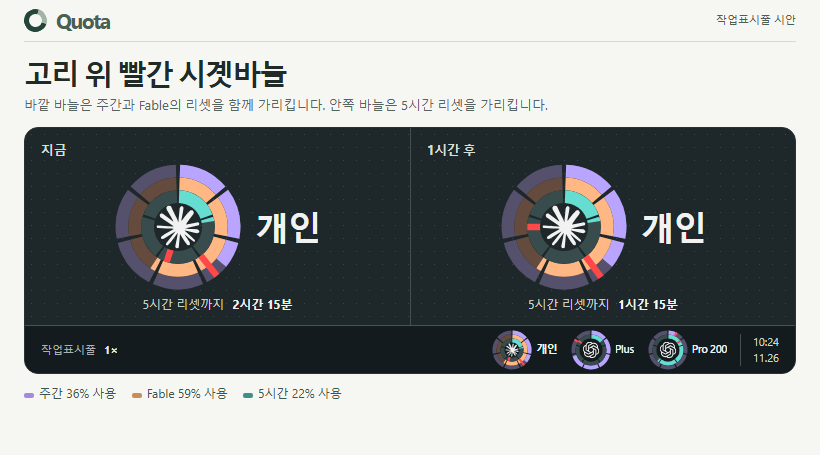
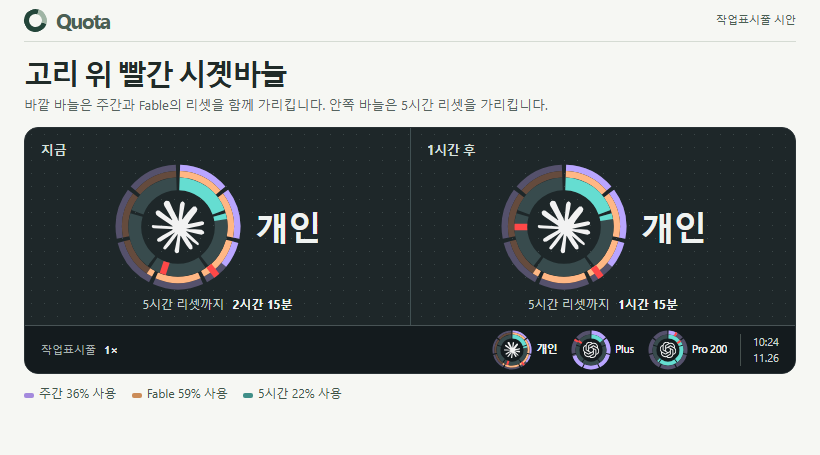
Fit Claude weekly and Fable usage into one Codex-width band

Changed region(s): [[0.122, 0.3692, 0.3049, 0.6462], [0.6098, 0.3692, 0.7622, 0.6462], [0.5793, 0.7077, 0.6707, 0.8308]]

diff --git a/dial-preview.js b/dial-preview.js
@@ -3,9 +3,9 @@
 const dialBands = { week: 7, fable: 7, short: 5 };
 const dialOuterRadius = 39, dialStroke = 8, handWidth = 4;
 
-function dialBand(key, value, index) {
+function dialBand(key, value, outer, stroke) {
   const cells = dialBands[key];
-  const radius = dialOuterRadius - (index + .5) * dialStroke;
+  const radius = outer - stroke / 2;
   const point = fraction => {
     const angle = 2 * Math.PI * fraction;
     return [40 + radius * Math.sin(angle), 40 - radius * Math.cos(angle)];
@@ -13,7 +13,7 @@ function dialBand(key, value, index) {
   const gap = 0.011;
   const paths = Array.from({ length: cells }, (_, i) => {
     const start = point(i / cells + gap / 2), end = point((i + 1) / cells - gap / 2);
-    const attrs = `d="M${start.join(" ")} A${radius} ${radius} 0 0 1 ${end.join(" ")}" pathLength="100" stroke-width="${dialStroke}"`;
+    const attrs = `d="M${start.join(" ")} A${radius} ${radius} 0 0 1 ${end.join(" ")}" pathLength="100" stroke-width="${stroke}"`;
     const fill = Math.max(0, Math.min(100, value * cells - i * 100));
     return `<path ${attrs} class="track"/>` +
       (fill > 0 ? `<path ${attrs} class="used" stroke-dasharray="${fill} 100"/>` : "");
@@ -40,14 +40,14 @@ function dialHand(key, left, outer, inner) {
 }
 
 function dialPreview(usage, logo, resets) {
-  const keys = Object.keys(dialBands).filter(key => Number.isFinite(usage[key]));
-  const size = keys.length === 3 ? 27 : 33;
-  const bands = keys.map((key, index) => dialBand(key, usage[key], index)).join("");
-  const shortIndex = keys.indexOf("short");
-  const weeklyDepth = (keys.length - Number(shortIndex >= 0)) * dialStroke;
-  const shortEdge = dialOuterRadius - shortIndex * dialStroke;
-  const hands = (weeklyDepth ? dialHand("week", resets?.week, dialOuterRadius, dialOuterRadius - weeklyDepth) : "") +
-    (shortIndex >= 0 ? dialHand("short", resets?.short, shortEdge, shortEdge - dialStroke) : "");
+  const weeklyKeys = ["week", "fable"].filter(key => Number.isFinite(usage[key]));
+  const weeklyWidth = weeklyKeys.length === 2 ? dialStroke / 2 : dialStroke;
+  const shortEdge = dialOuterRadius - weeklyKeys.length * weeklyWidth;
+  const hasShort = Number.isFinite(usage.short);
+  const bands = weeklyKeys.map((key, i) => dialBand(key, usage[key], dialOuterRadius - i * weeklyWidth, weeklyWidth)).join("") +
+    (hasShort ? dialBand("short", usage.short, shortEdge, dialStroke) : "");
+  const hands = (weeklyKeys.length ? dialHand("week", resets?.week, dialOuterRadius, shortEdge) : "") +
+    (hasShort ? dialHand("short", resets?.short, shortEdge, shortEdge - dialStroke) : "");
   return `<svg class="dial" viewBox="0 0 80 80" aria-hidden="true">${bands}` +
-    `<image class="dial-logo" href="${logo}.svg" x="${(80 - size) / 2}" y="${(80 - size) / 2}" width="${size}" height="${size}"/>${hands}</svg>`;
+    `<image class="dial-logo" href="${logo}.svg" x="23.5" y="23.5" width="33" height="33"/>${hands}</svg>`;
 }

diff --git a/src/taskbar.rs b/src/taskbar.rs
@@ -1219,26 +1219,39 @@ impl<'a> Gauge<'a> {
     }
 
     fn weekly_inner_edge(&self) -> f32 {
-        let bands = u8::from(self.week.is_some()) + u8::from(self.fable.is_some());
-        OUTER_RADIUS - f32::from(bands) * RING_WIDTH
+        if self.week.is_some() || self.fable.is_some() {
+            OUTER_RADIUS - RING_WIDTH
+        } else {
+            OUTER_RADIUS
+        }
     }
 
-    fn rings(&self) -> impl Iterator<Item = (Ring, &Limit, f32)> {
+    fn rings(&self) -> impl Iterator<Item = (Ring, &Limit, (f32, f32))> {
+        let weekly_width = if self.week.is_some() && self.fable.is_some() {
+            RING_WIDTH / 2.
+        } else {
+            RING_WIDTH
+        };
+        let inner = self.weekly_inner_edge();
         [
-            (Ring::Week, self.week),
-            (Ring::Fable, self.fable),
-            (Ring::Short, self.short),
+            (
+                Ring::Week,
+                self.week,
+                (OUTER_RADIUS - weekly_width / 2., weekly_width),
+            ),
+            (
+                Ring::Fable,
+                self.fable,
+                (inner + weekly_width / 2., weekly_width),
+            ),
+            (
+                Ring::Short,
+                self.short,
+                (inner - RING_WIDTH / 2., RING_WIDTH),
+            ),
         ]
         .into_iter()
-        .filter_map(|(ring, limit)| limit.map(|limit| (ring, limit)))
-        .enumerate()
-        .map(|(index, (ring, limit))| {
-            (
-                ring,
-                limit,
-                OUTER_RADIUS - (index as f32 + 0.5) * RING_WIDTH,
-            )
-        })
+        .filter_map(|(ring, limit, band)| limit.map(|limit| (ring, limit, band)))
     }
 }
 
@@ -1439,7 +1452,7 @@ impl Renderer {
                     );
                     let gauge = Gauge::new(tile);
                     let known = gauge.has_quota();
-                    for (ring, limit, radius) in gauge.rings() {
+                    for (ring, limit, band) in gauge.rings() {
                         let (active, track) = match ring {
                             Ring::Week => (&palette.week, &palette.week_track),
                             Ring::Fable => (&palette.fable, &palette.fable_track),
@@ -1447,24 +1460,10 @@ impl Renderer {
                         };
                         for arc in arcs(ring.divisions(), limit.remaining) {
                             brush.SetColor(track);
-                            self.arc(
-                                target,
-                                &brush,
-                                center,
-                                (radius, RING_WIDTH),
-                                arc.start,
-                                arc.span,
-                            )?;
+                            self.arc(target, &brush, center, band, arc.start, arc.span)?;
                             if arc.filled > 0. {
                                 brush.SetColor(active);
-                                self.arc(
-                                    target,
-                                    &brush,
-                                    center,
-                                    (radius, RING_WIDTH),
-                                    arc.start,
-                                    arc.filled,
-                                )?;
+                                self.arc(target, &brush, center, band, arc.start, arc.filled)?;
                             }
                         }
                     }
@@ -1479,11 +1478,7 @@ impl Renderer {
                             TAU,
                         )?;
                     }
-                    let logo_radius = if gauge.rings().count() == 3 {
-                        27. / 4.
-                    } else {
-                        33. / 4.
-                    };
+                    let logo_radius = 33. / 4.;
                     let logo_bounds = draw_rect(
                         center.0 - logo_radius,
                         center.1 - logo_radius,
@@ -2095,14 +2090,18 @@ mod tests {
         let bands = |tile: &Tile| {
             Gauge::new(tile)
                 .rings()
-                .map(|(ring, _, radius)| (ring, radius))
+                .map(|(ring, _, band)| (ring, band))
                 .collect::<Vec<_>>()
         };
         assert_eq!(
             bands(tile),
-            [(Ring::Week, 17.5), (Ring::Fable, 13.5), (Ring::Short, 9.5)]
+            [
+                (Ring::Week, (18.5, 2.)),
+                (Ring::Fable, (16.5, 2.)),
+                (Ring::Short, (13.5, 4.))
+            ]
         );
-        assert_eq!(Gauge::new(tile).weekly_inner_edge(), 11.5);
+        assert_eq!(Gauge::new(tile).weekly_inner_edge(), 15.5);
         let angles = |ring: Ring| {
             arcs(ring.divisions(), 50.)
                 .map(|arc| (arc.start, arc.span))
@@ -2111,13 +2110,19 @@ mod tests {
         assert_eq!(angles(Ring::Week), angles(Ring::Fable));
 
         tile.fable = None;
-        assert_eq!(bands(tile), [(Ring::Week, 17.5), (Ring::Short, 13.5)]);
+        assert_eq!(
+            bands(tile),
+            [(Ring::Week, (17.5, 4.)), (Ring::Short, (13.5, 4.))]
+        );
         assert_eq!(Gauge::new(tile).weekly_inner_edge(), 15.5);
         tile.week = None;
-        assert_eq!(bands(tile), [(Ring::Short, 17.5)]);
+        assert_eq!(bands(tile), [(Ring::Short, (17.5, 4.))]);
         assert_eq!(Gauge::new(tile).weekly_inner_edge(), OUTER_RADIUS);
         tile.fable = limit(42.);
-        assert_eq!(bands(tile), [(Ring::Fable, 17.5), (Ring::Short, 13.5)]);
+        assert_eq!(
+            bands(tile),
+            [(Ring::Fable, (17.5, 4.)), (Ring::Short, (13.5, 4.))]
+        );
     }
 
     #[test]
